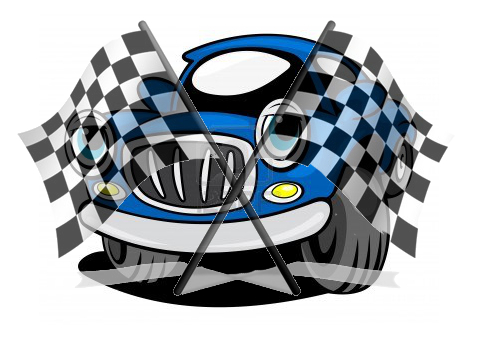
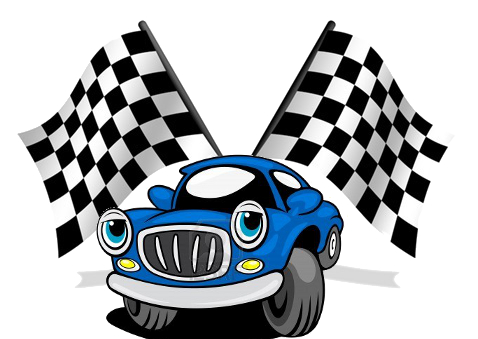
new finish images

diff --git a/src/view/SimulationEditorView.java b/src/view/SimulationEditorView.java
@@ -299,7 +299,7 @@ public class SimulationEditorView extends JPanel implements Observer{
 			shortestPathJRB.setEnabled(true);
 			fastestPathJRB.setEnabled(true);
 			lowestGasConsumptionJRB.setEnabled(true);
-			highestGasConsumptionJRB.setEnabled(true);
+			highestGasConsumptionJRB.setEnabled(false);
 
 			
 			
@@ -347,7 +347,7 @@ public class SimulationEditorView extends JPanel implements Observer{
 		for(Vehicle v : model.getFleetEditorModel().getVehicles()){
 			
 			carII = new ImageIcon(v.getVehicleTypes().getUrlVehicle());
-			carII.setImage(carII.getImage().getScaledInstance(50, 50,Image.SCALE_DEFAULT));
+			carII.setImage(carII.getImage().getScaledInstance(30, 30,Image.SCALE_DEFAULT));
 			if(v.getStartKnot() != null){
 				
 				carII.paintIcon(this, g2d, v.getStartKnot().getX() - carII.getIconWidth()/2, v.getStartKnot().getY() - carII.getIconHeight()/2);
@@ -355,7 +355,7 @@ public class SimulationEditorView extends JPanel implements Observer{
 			}
 			if(v.getFinishKnot() != null){
 				carFinishII = new ImageIcon(v.getVehicleTypes().getUrlFinish());
-				carFinishII.setImage(carFinishII.getImage().getScaledInstance(50, 50,Image.SCALE_DEFAULT));
+				carFinishII.setImage(carFinishII.getImage().getScaledInstance(35, 25,Image.SCALE_DEFAULT));
 
 				carFinishII.paintIcon(this, g2d, v.getFinishKnot().getX() - carFinishII.getIconWidth()/2, v.getFinishKnot().getY() - carFinishII.getIconHeight()/2);
 			
@@ -364,7 +364,7 @@ public class SimulationEditorView extends JPanel implements Observer{
 			
 			if(v.getCurrentPosition()!= null && ! v.getNextKnot().equals(v.getCurrentPosition())){
 				
-				carII.setImage(carII.getImage().getScaledInstance(20, 20,Image.SCALE_DEFAULT));
+				carII.setImage(carII.getImage().getScaledInstance(15, 15,Image.SCALE_DEFAULT));
 				carII.paintIcon(this, g2d, v.getCurrentPosition().getX() - carII.getIconWidth()/2, v.getCurrentPosition().getY() - carII.getIconHeight()/2);			
 		
 			}

diff --git a/src/model/SimulationOption.java b/src/model/SimulationOption.java
@@ -1,0 +1,23 @@
+/**
+ * 
+ */
+package model;
+
+/**
+ * @author dimitri.haemmerli
+ *
+ */
+public enum SimulationOption {
+
+	SHORTEST_PATH(1),
+	FASTEST_PATH(2),
+	LOWEST_GAS_CONSUMPTION(3),
+	HIGHEST_GAS_CONSUMPTION(4);
+	
+	private int simulationOption;
+	
+	private SimulationOption(int simulationOption){
+		
+		this.simulationOption = simulationOption;
+	}
+}
